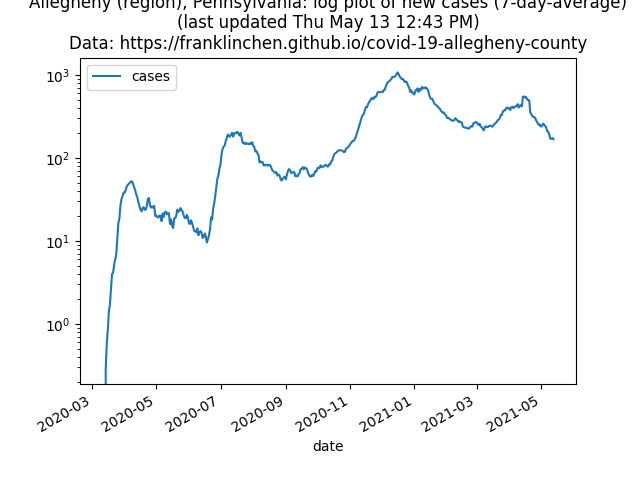
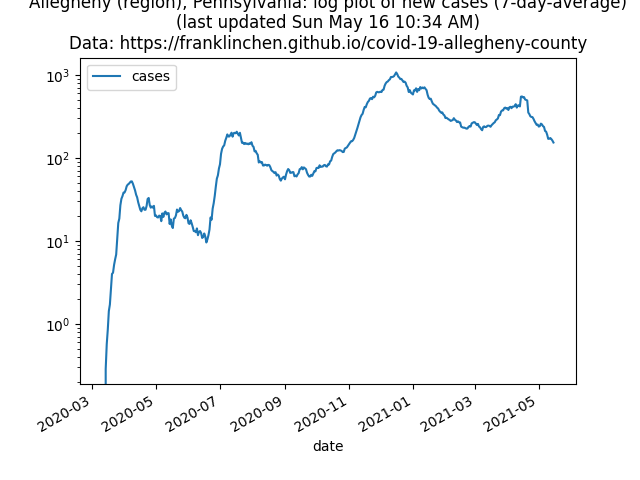
PA/CDC order.

diff --git a/index.html b/index.html
@@ -12,15 +12,13 @@
         </header>
 
         <aside>
-            Last updated: Thu May 13, 12:43 PM
+            Last updated: Sun May 16, 10:34 AM
         </aside>
 
         <section>
             <h2 style="color: #ff6700">Important announcements</h2>
+            <p> May 13, 2021: <a href="https://www.media.pa.gov/Pages/Health-Details.aspx?newsid=1450">PA mask order</a> in accordance with <a href="https://www.cdc.gov/coronavirus/2019-ncov/vaccines/fully-vaccinated.html">CDC announcement</a>: <strong>fully vaccinated</strong> individuals can now resume activities without wearing a mask or physically distancing, except where required by law, rule, and regulations, including local business and workplace guidance. Under the guidance, individuals are still required to wear a mask on planes, buses, trains, and other forms of public transportation traveling into, within, or out of the United States, and in U.S. transportation hubs, such as airports and stations. In addition, all individuals will still need to follow guidance at workplaces and local businesses.
             <p> May 4, 2021: effective Memorial Day (May 31, 2021), <a href="https://www.media.pa.gov/Pages/Health-Details.aspx?newsid=1437">all COVID-19 mitigations will be lifted, *except masking requirements*.</a> Mask requirements will be lifted when 70% of Pennylvanians age 18 and older are fully vaccinated.
-            </p>
-            <p>
-                April 27, 2021: <a href="https://www.media.pa.gov/Pages/Health-Details.aspx?newsid=1425">PA department of health updates mask guidance</a>.
             </p>
         </section>
 
